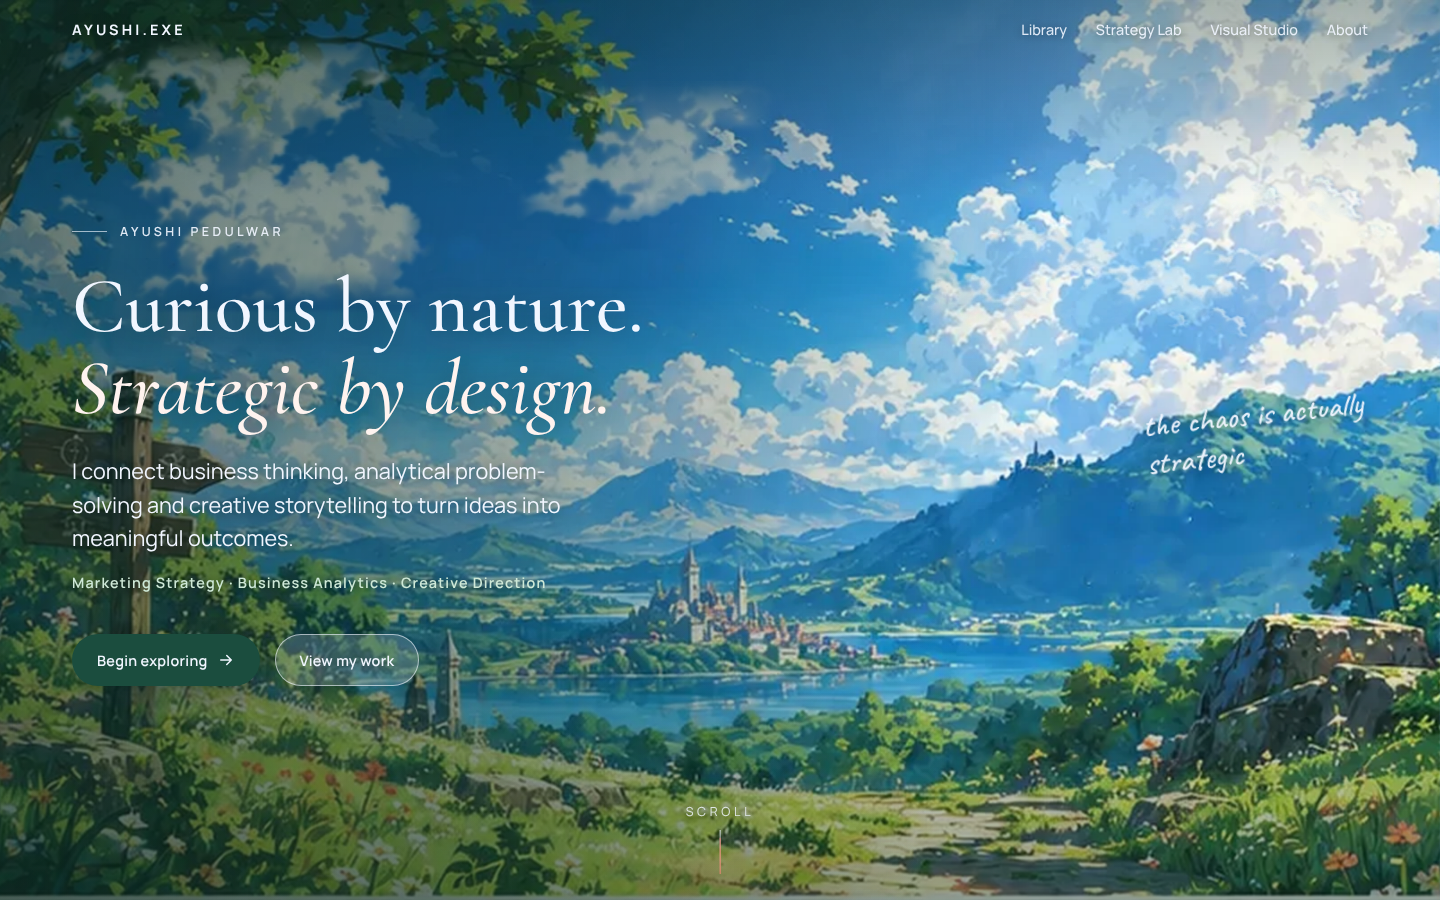
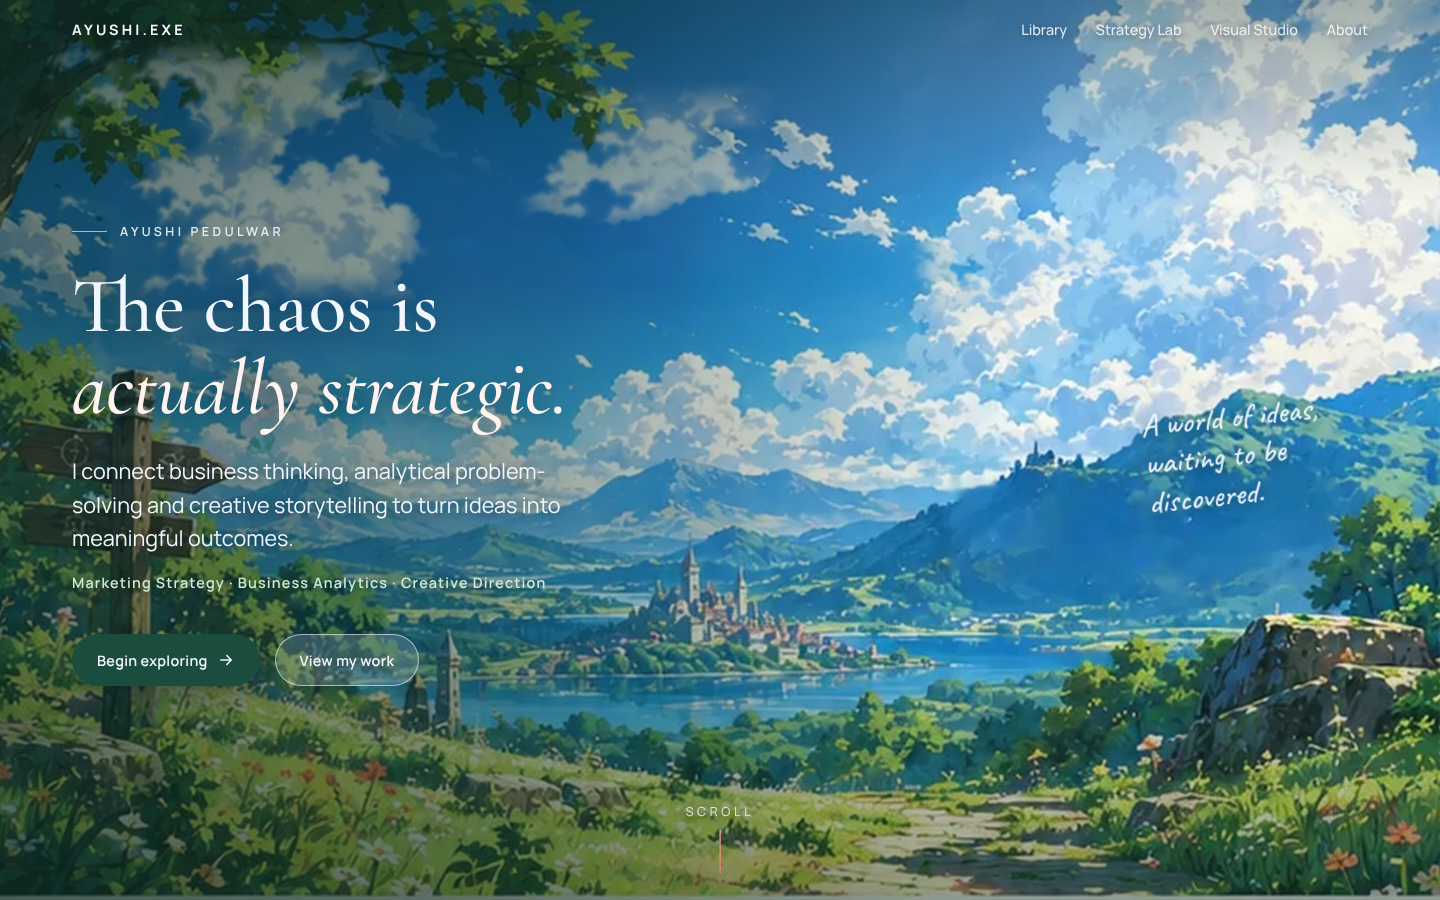
Stage 2: headline reads 'The chaos is actually strategic', restore handwritten note
Claude-Session: https://claude.ai/code/session_01RuimECQjLLPPcxrergvsow

Changed region(s): [[0.0312, 0.4044, 0.4375, 0.4978], [0.0312, 0.3111, 0.4375, 0.3733], [0.7812, 0.4356, 0.9688, 0.56]]

diff --git a/src/scenes/Hero.jsx b/src/scenes/Hero.jsx
@@ -31,10 +31,8 @@ export function Hero() {
           <span>{profile.name}</span>
         </p>
         <h1 id="hero-title" className="hero__title">
-          {profile.headline.split('. ').map((part, i, arr) => (
-            <span key={i} className="hero__title-line">
-              {part}{i < arr.length - 1 ? '.' : ''}
-            </span>
+          {profile.headline.split('\n').map((line, i) => (
+            <span key={i} className="hero__title-line">{line}</span>
           ))}
         </h1>
         <p className="hero__intro">{profile.intro}</p>

diff --git a/src/content/profile.js b/src/content/profile.js
@@ -6,8 +6,8 @@ export const profile = {
   siteName: 'The Curious Atlas',
   wordmark: 'AYUSHI.EXE',
   name: 'Ayushi Pedulwar',
-  headline: 'Curious by nature. Strategic by design.',
-  tagline: 'the chaos is actually strategic',
+  headline: 'The chaos is\nactually strategic.', // \n = line break; the last line is shown in italics
+  tagline: 'A world of ideas, waiting to be discovered.',
   intro:
     'I connect business thinking, analytical problem-solving and creative storytelling to turn ideas into meaningful outcomes.',
   credentials:
